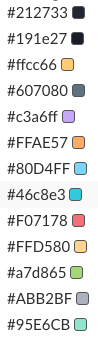
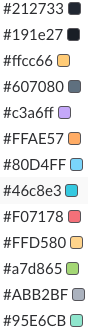
better image

diff --git a/README.md b/README.md
@@ -16,7 +16,7 @@ Activate the theme with the following preferences at **(Preferences > Setting - 
 Note: You should probably restart Sublime after activating the theme
 
 ## UI Colors
-<img width="30%" src="https://raw.githubusercontent.com/bchiang7/Halcyon/master/colors.png">
+<img width="200px" src="https://raw.githubusercontent.com/bchiang7/Halcyon/master/colors.png">
 
 ## My Personal User Settings
 ```
